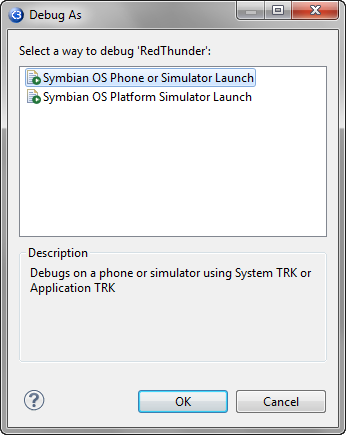
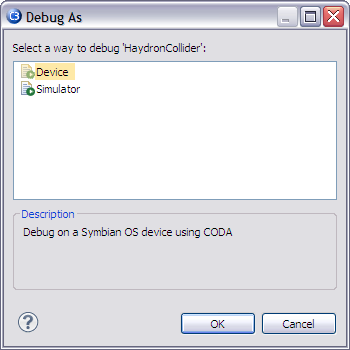
removed old launch config images and revised page to remove same

Changed region(s): [[0.0, 0.0, 1.0, 1.0]]

diff --git a/core/com.nokia.carbide.cpp.doc.user/html/projects/launch/wiz_new_launch_config.htm b/core/com.nokia.carbide.cpp.doc.user/html/projects/launch/wiz_new_launch_config.htm
@@ -23,72 +23,44 @@
         <th width="59%" scope="col">Wizard Pages</th>
     </tr>
     <tr>
-        <td><b>Common pages</b></td>
+        <td><b>Device</b></td>
         <td><ul>
             <li><a href="#DEBUGAS">Debug As</a></li>
-            <li>Launch Types</li>
-            <li><a href="#BLD_OPT">Build Option Selection</a></li>
             <li><a href="#EXE_SEL">Executable Selection</a></li>
+            <li><a href="#BLD_OPT">Build Options Selection</a></li>
             <li><a href="#FINISH">New Launch Configuration</a></li>
         </ul></td>
     </tr>
     <tr>
         <td><b>Simulator</b></td>
         <td><ul>
-            <li><a href="#EXE_SEL">Executable Selection</a></li>
-            <li><a href="#BLD_OPT">Build Option Selection</a></li>
-            <li><a href="#FINISH">New Launch Configuration</a></li>
-        </ul></td>
-    </tr>
-    <tr>
-        <td><b>Symbian OS Device (Install SIS)</b></td>
-        <td><ul>
-            <li><a href="#TRK_CONN">CODA Connection Settings</a></li>
-            <li><a href="#TRK_SIS">CODA SIS Selection</a> (<i>Symbian OS Device (Install SIS) only</i>) </li>
-        </ul></td>
-    </tr>
-    <tr>
-        <td><b>Symbian OS Device (Attach to Process)</b></td>
-        <td><ul>
-            <li><a href="#TRK_CONN">CODA Connection Settings</a></li>
+            <li><a href="#DEBUGAS">Debug As</a><a href="#EXE_SEL"></a></li>
+            <li><a href="wnd_config_launch_config.htm">Configure launch configuration</a></li>
         </ul></td>
     </tr>
 </table>
 <h3><a name="DEBUGAS" id="LAUNCH2"></a>Debug As</h3>
 <p>Use the<b> Debug As </b>dialog  to select the method of debugging for the chosen build configuration.  The choices include: </p>
 <ul>
-    <li><b>Symbian OS Phone of Simulator Launch</b> &ndash; choose to work with attached phones or devices</li>
+    <li><b>Device</b> &ndash; debug on Symbian devices using CODA (Carbide On-device Debug Agent) </li>
 </ul>
 <ul>
-    <li><b>Symbian OS Platform Simulator Launch</b> &ndash; choose to work with platform boards</li>
+    <li><b>Simulator</b> &ndash; debug on Symbian simulators</li>
 </ul>
 <p>The choice made here filters the <b>Launch Types</b> page to  only show valid launch configurations. Once a debug as choice is made, click <b>OK</b>. </p>
-<p align="center"><img src="images/wiz_launch_config_debug_as.png" alt="Debug As dialog" width="346" height="435"></p>
+<p align="center"><img src="images/wiz_launch_config_debug_as.png" alt="Debug As dialog" width="350" height="350"></p>
 <p class="figure">Figure 1 - Debug As dialog </p>
-<h3><a name="LAUNCH" id="LAUNCH"></a>Launch Types</h3>
-<p>Use the<b> Launch Types</b> page to select the type of launch configuration for the build target. This page does not appear when using an Emulator target. Available types are listed from the most frequently chosen  to the least likely type. Select a type and click <b>Next</b>. </p>
-<p align="center"><img src="images/wiz_launch_config_launch_types.png" width="438" height="533"></p>
-<p class="figure">Figure 2 - Launch Type page </p>
-<h3><a name="BLD_OPT" id="EXE_SEL2"></a>Build Options Selection </h3>
+<h3><a name="BLD_OPT" id="EXE_SEL2"></a>Build Options Selection page</h3>
 <p>Use the <b>Build Options Selection </b> page to define if the launch configuration uses automatic build or not. Choices include using the global automatic built setting (default), enable or disable automatic build for the launch configuration. You can also set the global option using the Configure Workspace Settings... to open the Launching preference panel.</p>
 <p align="center"><img src="images/wiz_launch_config_build_options.png" width="631" height="433"></p>
 <p class="figure">Figure 3 - Build Options Selection page </p>
-<h3><a name="EXE_SEL" id="EXE_SEL"></a>Executable Selection </h3>
-<p>Use the <b>Application Selection </b> page to choose a binary created by the project to launch and debug and verify its location. If only a single binary is available the <b>Process to launch</b> option is disabled. </p>
+<h3><a name="EXE_SEL" id="EXE_SEL"></a>Executable Selection page</h3>
+<p>Use the <b>Executable Selection </b> page to choose a binary created by the project to launch and debug. If only a single binary is available the <b>Process to launch</b> option is disabled. </p>
 <p><b>EMULATOR ONLY</b> Use the <b>Location</b> field for emulator targets to verify that the correct executable on the host is selected. This field is not used with on-device launch configurations. </p>
 <p>Select the <b>Process to launch</b>, verify it is the correct binary. </p>
-<p>Use the <b>Specify device path of remote process to launch</b> option to specify alternate paths for launching the executable from RAM (<span class="code">c:\sys\bin\</span>), ROM (<span class="code">z:\sys\bin\</span>) or  memory cards (<span class="code">e:\sys\bin\</span>), then click <b>Next</b>. </p>
-<p align="center"><img src="images/wiz_launch_config_app_selection.png" width="438" height="533"> </p>
+<p>Use the <b>Specify device path of remote process to launch</b> option (<i>not shown</i>) to specify alternate paths for launching the executable from RAM (<span class="code">c:\sys\bin\</span>), ROM (<span class="code">z:\sys\bin\</span>) or  memory cards (<span class="code">e:\sys\bin\</span>), then click <b>Next</b>. </p>
+<p align="center"><img src="images/wiz_launch_config_app_selection.png" width="542" height="421"> </p>
 <p class="figure">Figure 4 - Executable Selection page (when project has multiple EXEs)</p>
-<h3><a name="TRK_CONN" id="TRK_CONN"></a>CODA Connection Settings </h3>
-<p>Use the <b>CODA Connection Settings</b> page to specify the connection used to communicate with the target device. If the device is already connected, the drop down list will include both the COM port and the name of the device using that port. Use the <a href="../../reference/trk/wnd_on_device_setup.htm">On-Device Conection</a> dialog to verify and update all Carbide software services on the device. Choose the serial port used to communicate with the target device and click <b>Next</b>. </p>
-<p align="center"><img src="images/wiz_launch_config_trk_conn.png" width="487" height="533"> </p>
-<p class="figure">Figure 5 - CODA Connection Settings  page </p>
-<p>&nbsp;</p>
-<h3><a name="TRK_SIS" id="TRK_SIS"></a>CODA SIS Selection</h3>
-<p>Use the <b>CODA SIS Selection</b> page to select the SIS file to install on the target device. Click the <b>Modify SIS builder settings for build configuration</b> link to open the <a href="../../reference/build_properties/pane_build_config_sis.htm">SIS Builder</a> properties pane to add, edit, or review  the SIS files to build. Once the correct SIS File to Install is selected, click <b>Next</b>. </p>
-<p align="center"><img src="images/wiz_launch_config_trk_sis.png" width="463" height="533"></p>
-<p class="figure">Figure 6 - CODA SIS Selection page </p>
 <h3><a name="FINISH" id="FINISH"></a>New Launch Configuration</h3>
 <p>Use the <b>New Launch Configuration</b> page to note the name of the configuration, confirm the launch configuration settings,  and then launch the debug session. If something doesn't look right, click <b>Back</b> to return to a page and change its setting. If all the settings are correct, click <b>Finish</b> to start the debug session using this launch configuration. </p>
 <p>If you checkmark <b> Advanced settings</b>, the <a href="../../reference/wnd_debug_configuration.htm">Debug</a> dialog appears instead of launching the project. This enables you to make additional changes to the new launch configuration before starting the debug session. By design and intent, this should seldom be required for the initial launch. </p>
@@ -96,10 +68,7 @@
 <p class="figure">Figure 7 - New Launch Configuration page </p>
 <h5>Other references</h5>
 <ul>
-  <li><a href="../../projects/launch/launch_configs_overview.htm">Launch Configuration</a>  </li>
-  <li><a href="launch_emulator.htm">Symbian OS Emulator Launch</a></li>
-  <li><a href="launch_phone.htm">Symbian OS Phone Launch</a></li>
-  <li><a href="launch_board.htm">Symbian OS Reference Board Launch</a></li>
+  <li><a href="../../projects/launch/launch_configs_overview.htm">Launch Configuration</a></li>
 </ul>
 <div id="footer">Copyright &copy; 2010 Nokia Corporation and/or its subsidiary(-ies). All rights reserved. <br>License: <a href="http://www.eclipse.org/legal/epl-v10.html">http://www.eclipse.org/legal/epl-v10.html</a></div>
 

diff --git a/core/com.nokia.carbide.cpp.doc.user/html/projects/launch/wnd_debug_configuration.htm b/core/com.nokia.carbide.cpp.doc.user/html/projects/launch/wnd_debug_configuration.htm
@@ -43,7 +43,7 @@
     <td>Click the Collapse icon to collapse expanded lists of launch configurations.</td>
   </tr>
   <tr>
-    <td><div align="center"><img src="images/icon_filter_launch_config.png" width="21" height="18"></div></td>
+    <td><div align="center"><img src="../../reference/images/icon_filter_launch_config.png" alt="Filter icon" width="21" height="18"></div></td>
     <td><b>Filter launch configurations... </b></td>
     <td><p>Click the Filter icon to select filter options that control which launch configurations appear in the list. Filter options include:</p>
         <ul>

diff --git a/core/com.nokia.carbide.cpp.doc.user/html/projects/launch/wnd_config_launch_config.htm b/core/com.nokia.carbide.cpp.doc.user/html/projects/launch/wnd_config_launch_config.htm
@@ -37,7 +37,7 @@
 </table>
 <h4>Other references</h4>
 <ul>
-  <li></li>
+    <li><a href="wiz_new_launch_config.htm">New Launch Configuration Wizard</a></li>
 </ul>
 <div id="footer">Copyright &copy; 2010 Nokia Corporation and/or its subsidiary(-ies). All rights reserved. <br>License: <a href="http://www.eclipse.org/legal/epl-v10.html">http://www.eclipse.org/legal/epl-v10.html</a></div>
 </body>
